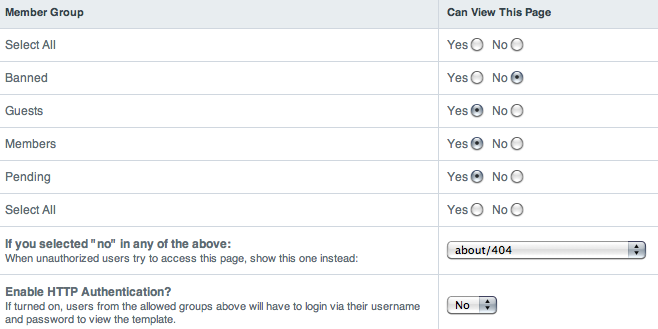
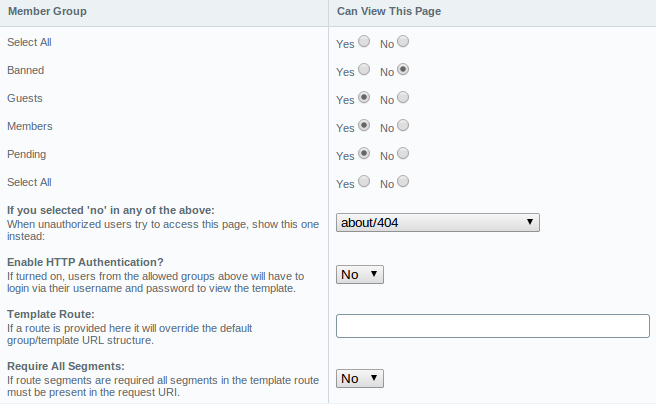
Adding cp section

diff --git a/source/cp/design/templates/template_access.rst b/source/cp/design/templates/template_access.rst
@@ -2,6 +2,7 @@ Template Access Restriction
 ===========================
 
 |Template Access|
+
 Member Group
 ~~~~~~~~~~~~
 
@@ -51,3 +52,19 @@ information sent.
 
 .. |Template Access| image:: ../../../images/template_access.png
 .. |HTTP Authentication symbol example| image:: ../../../images/template_http_auth_key.png
+
+Template Route
+~~~~~~~~~~~~~~
+
+This route determines the URLs that will match your template. The
+format is as follows::
+
+	/segment/{variable}/{variable:rule}/{variable:rule0|rule1[arg]}
+
+For more info see: :doc:`../../../urls/template_routes`
+
+Require All Segments
+~~~~~~~~~~~~~~~~~~~~
+
+If set to "yes" all segments defined in your Template Route must
+be contained in a URL in order for it to match.

diff --git a/source/urls/template_routes.rst b/source/urls/template_routes.rst
@@ -110,6 +110,8 @@ Matches all number types.
 
 Matches an arbitrary regular expression.
 
+.. note:: Regular expression matches are performed case insensitively
+
 Require all Segments
 ~~~~~~~~~~~~~~~~~~~~
 
